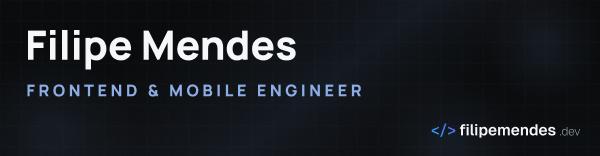
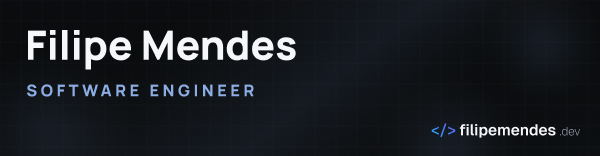
refactor: update portfolio and CV metadata to reflect 'Software Engineer' title; enhance descriptions for clarity and consistency across various sections

Changed region(s): [[0.03, 0.5385, 0.6, 0.641]]

diff --git a/src/data/projects/filipemendes-dev/project-detail.data.ts b/src/data/projects/filipemendes-dev/project-detail.data.ts
@@ -12,7 +12,7 @@ export const projectDetail: ProjectDetailContent = {
     summary:
       "Portfolio platform presenting projects, documentation and a developer profile.",
     description:
-      "Designed and built to showcase frontend engineering work through project pages, technical docs and personal presentation.",
+      "Designed and built to showcase software engineering work through project pages, technical docs and personal presentation.",
     isMobileApp: false,
     links: [
       {

diff --git a/src/data/site/site.metadata.ts b/src/data/site/site.metadata.ts
@@ -33,8 +33,8 @@ const resolveSiteUrl = (): string => {
 
 export const siteMetadata: SiteMetadataConfig = {
   siteName: personData.name,
-  title: "Filipe Mendes | Frontend & Mobile Engineer",
-  description: "Building production-grade web and mobile products.",
+  title: "Filipe Mendes | Software Engineer",
+  description: "Building production-grade web and mobile solutions.",
   siteUrl: resolveSiteUrl(),
   openGraphImage: {
     url: "/opengraph-image.png",

diff --git a/src/app/(cv)/curriculum-vitae/metadata.ts b/src/app/(cv)/curriculum-vitae/metadata.ts
@@ -6,7 +6,7 @@ import { createPageMetadata } from "../../../shared/seo/createPageMetadata";
 const author = siteMetadata.siteName;
 const title = `${author} | CV`;
 const description =
-  "Print-ready curriculum vitae page for frontend and mobile engineering experience.";
+  "Print-ready Software Engineer curriculum vitae highlighting frontend and mobile engineering experience.";
 
 export const metadata: Metadata = {
   ...createPageMetadata({

diff --git a/src/data/site/landing-page/contact.data.ts b/src/data/site/landing-page/contact.data.ts
@@ -13,7 +13,8 @@ export interface ContactData {
 }
 
 export const contactData: ContactData = {
-  intro: "Open to focused frontend, mobile and product architecture work.",
+  intro:
+    "Open to software engineering work across web, mobile and product architecture.",
   email: profileData.email,
   availability: `Based in ${profileData.location}. Available for remote collaboration.`,
   socials: profileData.socials.map((entry) => ({

diff --git a/src/app/(cv)/resume/metadata.ts b/src/app/(cv)/resume/metadata.ts
@@ -6,7 +6,7 @@ import { createPageMetadata } from "../../../shared/seo/createPageMetadata";
 const author = siteMetadata.siteName;
 const title = `${author} | CV`;
 const description =
-  "Print-ready resume focused on frontend and mobile engineering experience.";
+  "Print-ready Software Engineer resume focused on frontend and mobile engineering experience.";
 
 export const metadata: Metadata = {
   ...createPageMetadata({

diff --git a/src/assets/opengraph-image-example.tsx b/src/assets/opengraph-image-example.tsx
@@ -75,8 +75,8 @@ const OpenGraphImage = (): ImageResponse => {
                 color: "rgba(255, 255, 255, 0.84)",
               }}
             >
-              Frontend systems, mobile product work and implementation-focused
-              case studies.
+              Software products, technical documentation and
+              implementation-focused case studies.
             </div>
           </div>
           <div

diff --git a/src/data/site/site.data.ts b/src/data/site/site.data.ts
@@ -14,7 +14,7 @@ export interface SiteData {
 
 export const siteData: SiteData = {
   siteTitle: "Filipe Mendes",
-  description: "Frontend & Mobile Engineer",
+  description: "Software Engineer",
   navigation: [
     { label: "Home", href: "/", sectionId: "home" },
     { label: "Projects", href: "/", sectionId: "projects" },

diff --git a/src/data/site/landing-page/hero.data.ts b/src/data/site/landing-page/hero.data.ts
@@ -42,7 +42,7 @@ const heroActions: HeroAction[] = [
 ];
 
 export const heroData: HeroData = {
-  kicker: "Frontend & Mobile Engineer",
+  kicker: "Software Engineer",
   name: personData.name,
   headline: "Building production-grade web and mobile products.",
   supportingText: "Careful implementation, reliable in real use.",

diff --git a/src/data/site/cv/cv.data.ts b/src/data/site/cv/cv.data.ts
@@ -282,7 +282,7 @@ export const frontendCvData: CvDocumentData = {
   ...sharedCvData,
   personalInfo: {
     ...cvPersonalInfo,
-    title: "Frontend & Mobile Engineer",
+    title: "Software Engineer",
   },
   experience: frontendExperienceData,
   projects: frontendProjectsData,

diff --git a/README.md b/README.md
@@ -31,7 +31,7 @@
 
 ## Overview
 
-This repository powers a personal portfolio for Filipe Mendes, a frontend and mobile engineer. The site combines a section-based landing page, dedicated project pages and a docs workspace for project notes and reference material.
+This repository powers a personal portfolio for Filipe Mendes, a software engineer. The site combines a section-based landing page, dedicated project pages and a docs workspace for project notes and reference material.
 
 Content is data-driven. Site copy, project records, project detail content and docs entries live under `src/data`, then flow into thin route files and focused views.
 
